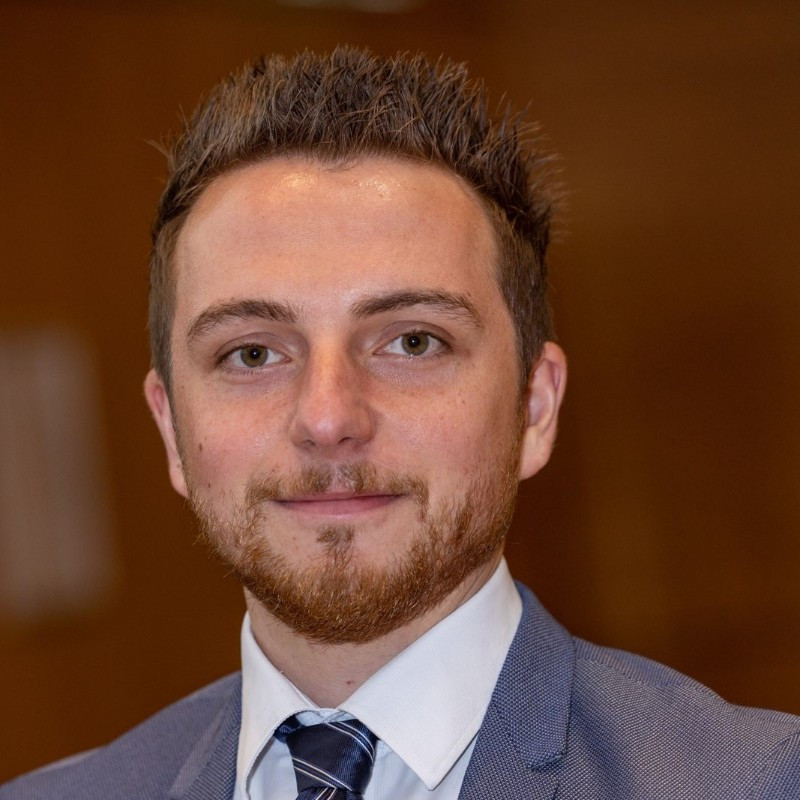
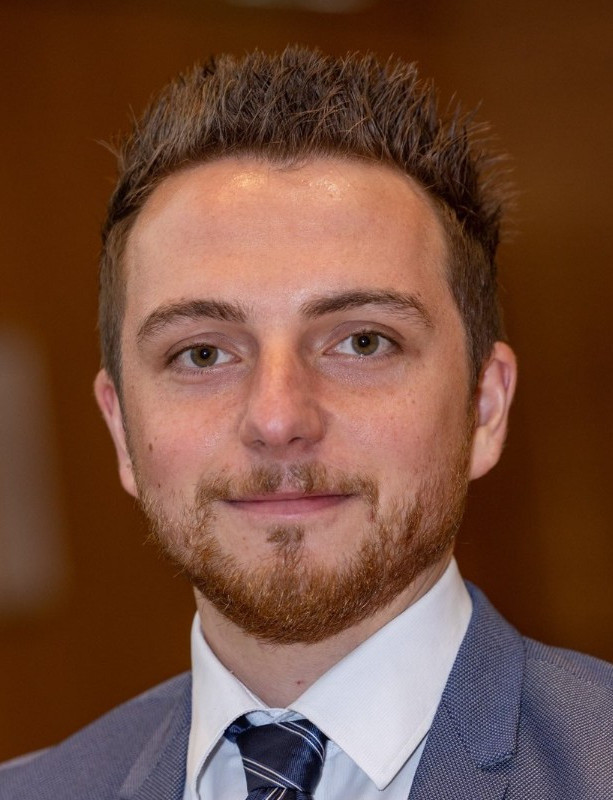
/image scaling

diff --git a/challenge.html b/challenge.html
@@ -75,8 +75,8 @@
             text-align: center; /* Center text below images */
         }
         .team-member img {
-            width: 200px; /* Fixed size for images */
-            height: 200px; /* Fixed height for images */
+            width: 180px; /* Fixed size for images */
+            height: 235px; /* Fixed height for images */
             border-radius: 10px; /* Optional rounded corners */
         }
         table {
